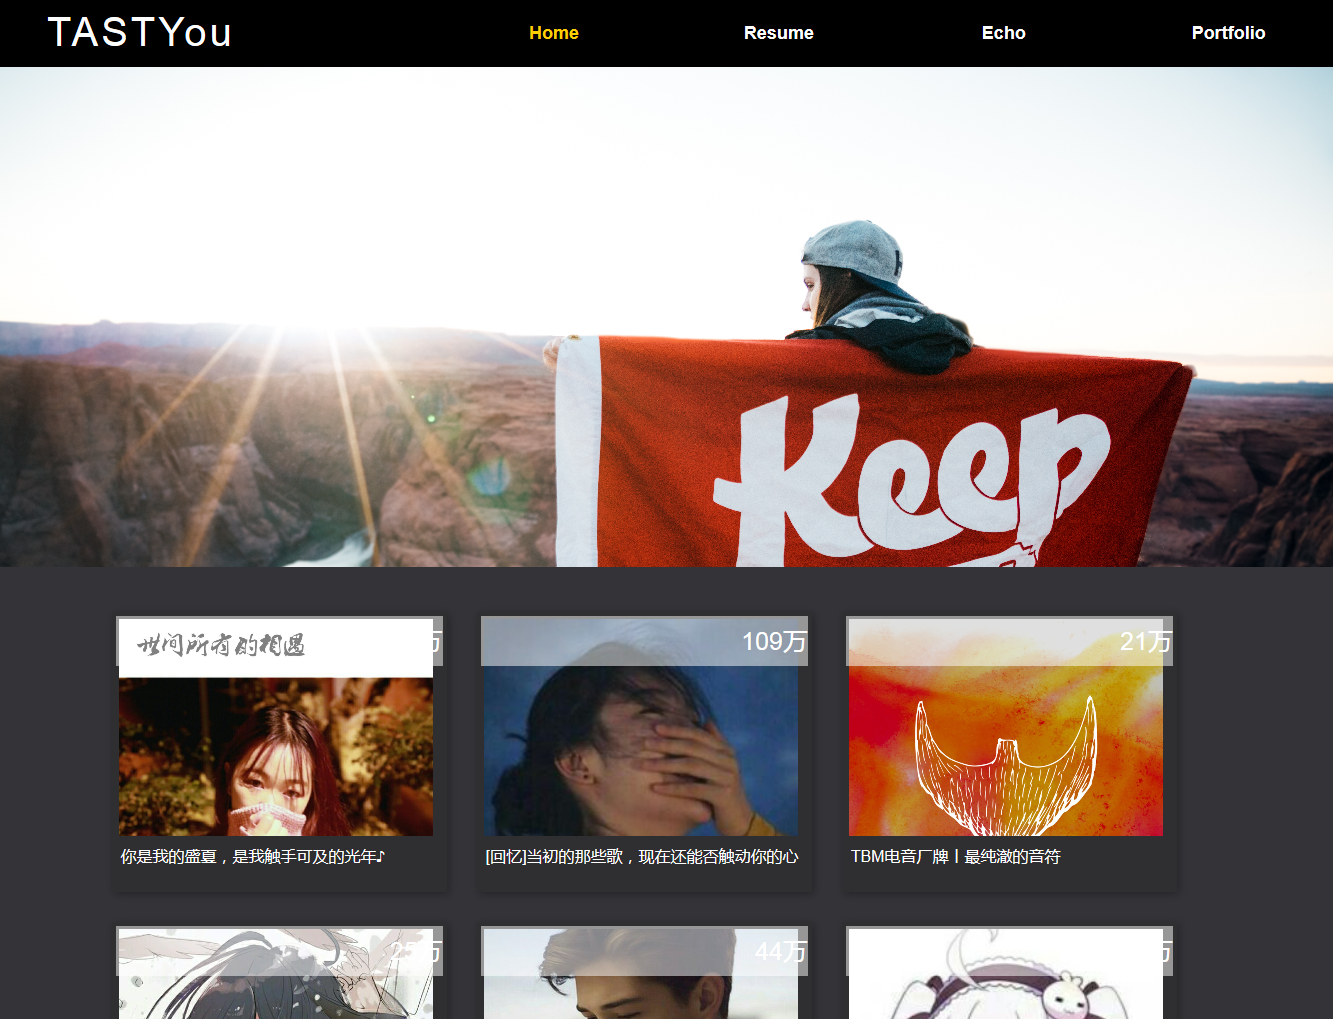
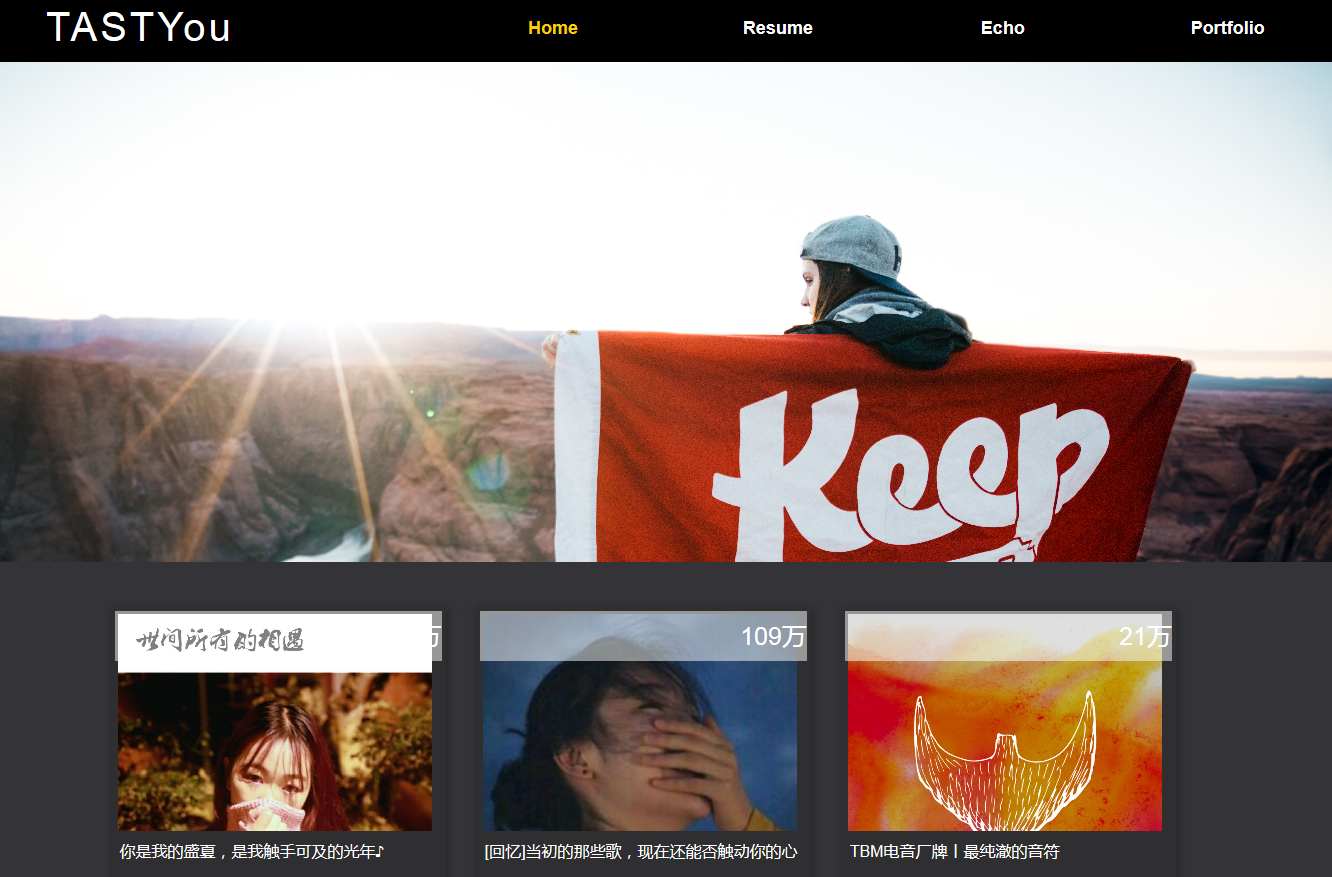
video

diff --git a/pages/resume/resume.html b/pages/resume/resume.html
@@ -91,7 +91,7 @@
                         <div class="slideLeft">
                             <div class=" social-icon">
                                 <span class="fa fa-wechat  text-center wechat"></span>
-                                <span class="fa fa-weibo  text-center"></span>
+                               <a href="http://weibo.com/u/5948294828?topnav=1&wvr=6&topsug=1"><span class="fa fa-weibo  text-center"></span></a>
                                 <span class="fa fa-qq  text-center"></span>
                             </div>
                         </div>
@@ -162,10 +162,10 @@
                     <div class="part2-left col-md-5">
                         <div class="title text-center">
                             <h3 class="style slideLeft">invitation </h3>
-                            <p class="pro-text slideLeft text-left">1.主要使用html5+css，结合flex弹性盒模型进行网页布局与样式，采用vw，rem解决字体适配问题；<br>
-                                2.采用模块化思想封装各个功能模块，区分出共享模块和独立模块，页面结构分离；<br>
-                                3.自定义封装了适合本项目的路由模块，编写底层的路由模块函数以及url地址分析提取模块函数，实现单页面间的数据通信；<br>
-                                4.采用H5里面localstorage本地缓存，解决流量的控制和二次加载的问题，提高性能；<br>
+                            <p class="pro-text slideLeft text-left">1.主要使用html5+css，结合flex弹性盒模型进行网页布局与样式，采用vw，rem解决字体适配问题；<br><br>
+                                2.采用模块化思想封装各个功能模块，区分出共享模块和独立模块，页面结构分离；<br><br>
+                                3.自定义封装了适合本项目的路由模块，编写底层的路由模块函数以及url地址分析提取模块函数，实现单页面间的数据通信；<br><br>
+                                4.采用H5里面localstorage本地缓存，解决流量的控制和二次加载的问题，提高性能；<br><br>
                                 5.采用Ajax异步请求数据的方式，实现数据的动态加载，解析数据并渲染到页面。</p>
                             <p class="skill slideLeft">项目技术<br>HTML，CSS，FLex，jQuery，Ajax，Bootstrap，localstorage</p>
                         </div>
@@ -188,12 +188,12 @@
                         </div>
                         <div class="inviteW"><div class="slideRight"><img class="auto" src="images/tast2.png"></div></div>
                     </div>
-                    <div class="part3-right col-md-5">
+                    <div class="part3-right col-md-5 " id="tastRight">
                         <div class="title text-center">
-                            <h3 class="style slideRight">practice </h3>
+                            <h3 class="style slideRight" id="tast">TASTYou </h3>
                             <p class="pro-text slideRight text-left">
-                                1.  设计了网站的UI界面和交互效果，使用Bootstrap，弹性盒模型和css达到响应式页面的布局和样式的	 实现，使用 jQuery达到了动态效果的实现；<br>
-                                2.  使用ajax实现数据的动态加载和url地址分析提取模块函数，实现了音乐分享页面的数据加载；<br>
+                                1.  设计了网站的UI界面和交互效果，使用Bootstrap，弹性盒模型和css达到响应式页面的布局和样式的	 实现，使用 jQuery达到了动态效果的实现；<br><br>
+                                2.  使用ajax实现数据的动态加载和url地址分析提取模块函数，实现了音乐分享页面的数据加载；<br><br>
                                 3.  实现了图片分享页的瀑布流布局，并做了分页处理，提高了网页性能；
                             </p>
                             <p class="skill slideRight">项目技术<br>Bootstrap，html，css，JS，jQuery，node.js，ajax，json，AngularJS</p>
@@ -344,7 +344,7 @@
                     <div class="exp-inner">
                         <div><span class="fa fa-globe"></span></div>
                         <p>工学院学生会</p>
-                        <p class="exp-text">在担任工学院生活部部长期间，协助老师完成各项工作，如筹办雷锋月系列活动，走访孤儿院，举办新生晚会等。任职期间带领部门开展创新性活动，有了阶段性的进步。</p>
+                        <p class="exp-text">在担任工学院生活部部长期间，协助老师完成各项工作，如筹办雷锋月系列活动，走访孤儿院，举办新生晚会等。任职期间带领部门开展创新性活动，部门有了阶段性的进步。</p>
                     </div>
                     <div class="exp-inner  exp-inner-up">
                         <h1 class="exp-title">生活部部长</h1>
@@ -469,8 +469,8 @@
                     <div class="gtco-widget slideRight">
                         <h3>Links</h3>
                         <ul class="gtco-footer-links">
-                            <li><a href="#">Knowledge Base</a></li>
-                            <li><a href="#">Career</a></li>
+                            <li><a href="#">TASTYou</a></li>
+                            <li><a href="http://weibo.com/u/5948294828?topnav=1&wvr=6&topsug=1">weibo</a></li>
                             <li><a href="#">Press</a></li>
                             <li><a href="#">Terms of services</a></li>
                             <li><a href="#">Privacy Policy</a></li>
@@ -484,7 +484,7 @@
                         <ul class="gtco-quick-contact">
                             <li><a href="#"><i class="fa fa-phone"></i> +155 0433 0384</a></li>
                             <li><a href="#"><i class="fa fa-mail-forward"></i> sudennings@163.com</a></li>
-                            <li><a href="#" class="wechat"><i class="fa fa-wechat wechat"></i> Live Chat</a></li>
+                            <li><a href="javascrip:;" class="wechat"><i class="fa fa-wechat wechat"></i> Live Chat</a></li>
                         </ul>
                     </div>
                 </div>

diff --git a/picture.html b/picture.html
@@ -13,7 +13,9 @@
           #homeHeader{line-height: 70px;height: 70px;background:#000; font-size: 18px;}
           #homeHeader .homLogo a{font-size: 40px;letter-spacing: 3px;padding-left: 4rem;color:#fff;}
         #homeHeader .homeMenu>div a{color:#fff;font-weight: bold;text-transform: capitalize;}
-          #homeHeader .menuAc{color:#FCD000; }
+        #homeHeader  .homeMenu>div:hover  a{color:#FCD000; }
+
+        #homeHeader  .homeMenu>div .menuAc{color:#FCD000; }
         .picBanner{background: #323232;height:500px;background: url("images/picbanner.jpg")no-repeat center bottom/cover;}
         .picture{margin-top: -60px;}
         .perPart>div{margin-bottom: 20px;position: relative;transition: all 1s;overflow: hidden;}
@@ -110,10 +112,10 @@
             <div class="col-sm-4 homLogo"><a href="#">TASTYou</a></div>
             <div class="col-sm-8">
                 <div class="row homeMenu">
-                    <div class="col-sm-3 text-center "><a class="menuAc" href="index.html">home</a></div>
+                    <div class="col-sm-3 text-center "><a  href="index.html">home</a></div>
                     <div class="col-sm-3 text-center"><a href="pages/resume/resume.html">resume</a></div>
                     <div class="col-sm-3 text-center"><a href="tastyou.html">echo</a></div>
-                    <div class="col-sm-3 text-center"><a href="picture.html">picture</a></div>
+                    <div class="col-sm-3 text-center"><a  class="menuAc" href="picture.html">picture</a></div>
 
                 </div>
             </div>
@@ -133,6 +135,7 @@
         </div>
     </div>
 </div>
+<script src="js/jquery-3.1.0.js"></script>
 
 </body>
 </html>

diff --git a/tastyou.html b/tastyou.html
@@ -17,6 +17,7 @@
         #homeHeader{line-height: 70px;height: 70px;background:#000; font-size: 18px;}
         #homeHeader .homLogo a{font-size: 40px;letter-spacing: 3px;padding-left: 4rem;color:#fff;}
         .homeMenu>div a{color:#fff;font-weight: bold;text-transform: capitalize;}
+        #homeHeader  .homeMenu>div:hover  a{color:#FCD000; }
         #homeHeader .menuAc{color:#FCD000; }
         .re-content{display: flex;width: 98%;flex-wrap: wrap;}
         .re-content .part{width:30%;height: 28rem;position: relative;background: #2F2F31;margin:15px;}
@@ -42,9 +43,9 @@
             <div class="col-sm-4 homLogo"><a href="#">TASTYou</a></div>
             <div class="col-sm-8">
                 <div class="row homeMenu">
-                    <div class="col-sm-3 text-center "><a class="menuAc" href="index.html">home</a></div>
+                    <div class="col-sm-3 text-center "><a  href="index.html">home</a></div>
                     <div class="col-sm-3 text-center"><a href="pages/resume/resume.html">resume</a></div>
-                    <div class="col-sm-3 text-center"><a href="tastyou.html">echo</a></div>
+                    <div class="col-sm-3 text-center"><a class="menuAc" href="tastyou.html">echo</a></div>
                     <div class="col-sm-3 text-center"><a href="picture.html">picture</a></div>
 
                 </div>
@@ -97,5 +98,6 @@
 </div>
 <script src="js/jquery-3.1.0.js"></script>
 <script src="js/tastyou.js"></script>
+
 </body>
 </html>

diff --git a/css/index.css b/css/index.css
@@ -3,12 +3,14 @@ body{background: #000;}
 /*--homeHeader--start--*/
 a:hover{text-decoration: none;}
 #homeHeader{line-height: 70px;height: 70px;background:#000; font-size: 18px;}
-#homeHeader .homLogo a{font-size: 40px;letter-spacing: 3px;padding-left: 4rem;color:#fff;}
+#homeHeader .homLogo{height: 70px;line-height: 70px;}
+#homeHeader .homLogo a{font-size: 38px;letter-spacing: 3px;padding-left: 4rem;color:#fff;}
 .homeMenu>div a{color:#fff;font-weight: bold;text-transform: capitalize;}
+.homeMenu>div:hover  a{color:#FCD000; }
 #homeHeader .menuAc{color:#FCD000; }
 
 /*--homeBanner--start--*/
-.homeBanner{height: 500px;position: relative;}
+.homeBanner{height: 500px;position: relative;overflow: hidden;}
 .homeBanner video{width: 100%;height: 100%;object-fit:cover;object-position: bottom left;}
 .text-block{position: absolute;width: 100%;height: 100%;top: 0;left: 0;}
 .middle{width: 100%;height: 100%;display: table;line-height: 46px;}

diff --git a/pages/resume/css/resume.css b/pages/resume/css/resume.css
@@ -211,6 +211,8 @@ p.kinds{position: relative;margin-bottom: 60px;font-size: 16px;color: #fff;}
 p.kinds:before{content: "";width: 80px;height: 2px;background: #999;position: absolute;left: 50%;margin-left: -40px;bottom: -10px;display: block;}
 .part3{background: #262626;font-size: 16px;}
 .part3 #practice{margin-bottom:2rem; }
+.part3 #tast{margin:3rem 0 5rem; }
+.part3 #tastRight{padding: 0 60px;}
 .part3-right{color: #999;padding-left:30px;}
 .part3-right .pro-text{font-size: 15px;padding: 0;}
 .part3-right .skill{padding-top: 20px;}
